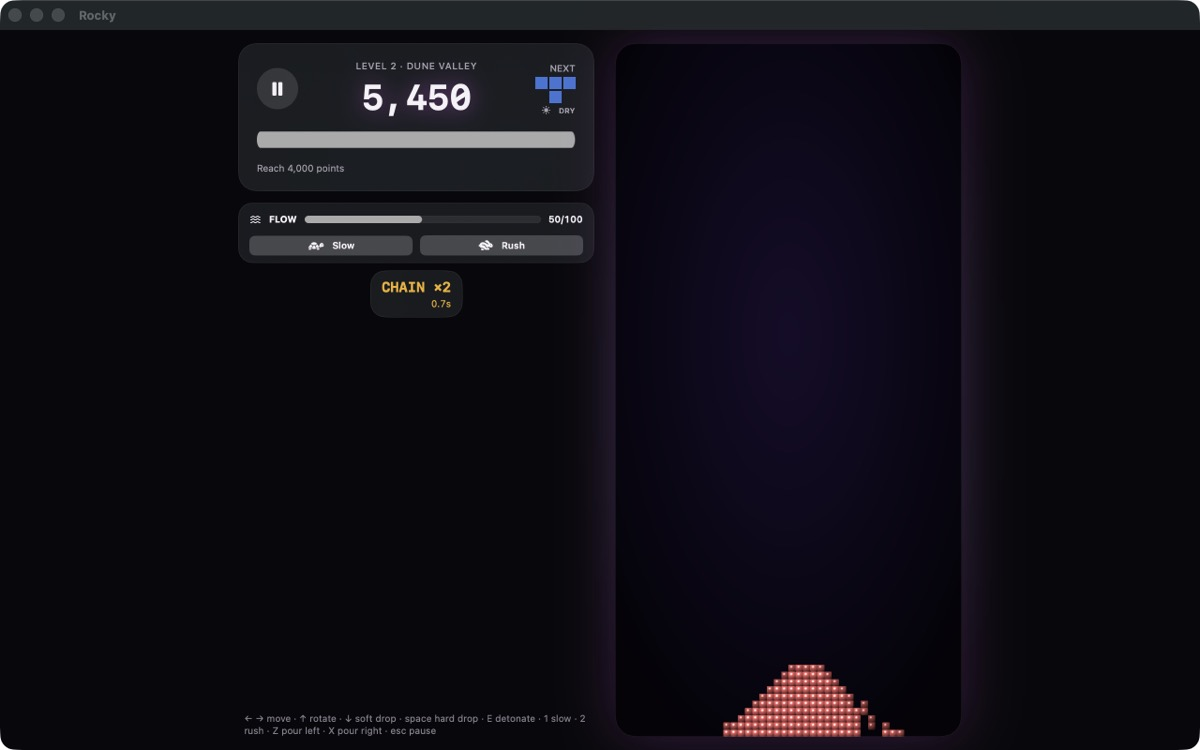
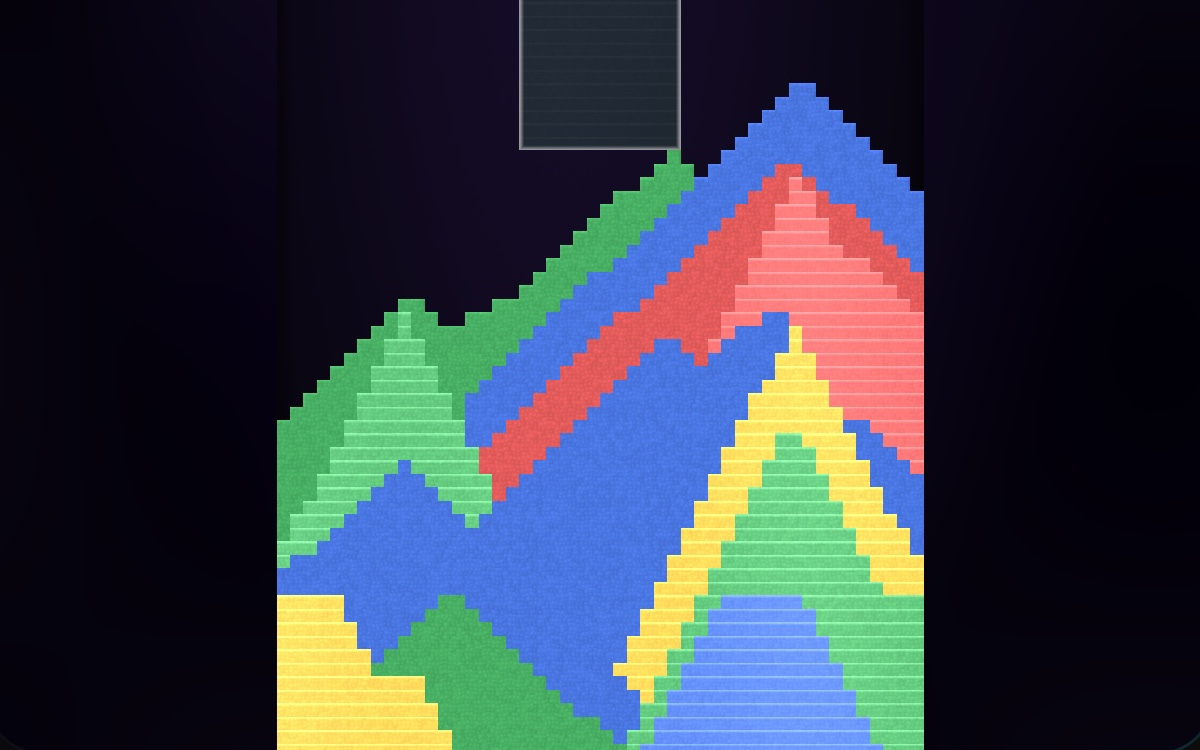
Refresh Rocky landing copy and genuine gameplay images

diff --git a/index.html b/index.html
@@ -3,20 +3,21 @@
 <head>
   <meta charset="utf-8">
   <meta name="viewport" content="width=device-width, initial-scale=1">
-  <title>Rocky: Falling Sand Puzzle for iPhone, iPad, Mac &amp; Vision Pro</title>
-  <meta name="description" content="An original falling-sand puzzle game for iPhone, iPad, Mac, and Apple Vision Pro. Stack blocks, melt sand wall-to-wall, and chain cascades across 20 missions.">
+  <title>Rocky: Falling Sand Puzzle for iPhone, iPad &amp; Mac</title>
+  <meta name="description" content="Drop blocks. Melt sand. Find your flow. Build colorful cascades through 20 missions, then chase your best in Endless. Play offline on iPhone, iPad, and Mac.">
   <link rel="canonical" href="https://fal3.github.io/rocky-support/">
   <meta property="og:type" content="website">
   <meta property="og:site_name" content="Rocky">
   <meta property="og:title" content="Rocky: Falling Sand Puzzle">
-  <meta property="og:description" content="Stack blocks that dissolve into flowing sand. Melt colors wall-to-wall, chain cascades, and master 20 missions plus endless mode — offline, on iPhone, iPad, Mac, and Apple Vision Pro.">
+  <meta property="og:description" content="Drop blocks. Melt sand. Find your flow. Clear space with colorful cascades, explore 20 missions, and chase your best in Endless — fully playable offline.">
   <meta property="og:url" content="https://fal3.github.io/rocky-support/">
   <meta property="og:image" content="https://fal3.github.io/rocky-support/assets/og-rocky.jpg">
   <meta property="og:image:width" content="1200">
   <meta property="og:image:height" content="750">
+  <meta property="og:image:alt" content="A colorful sand pile from a real Rocky Endless run">
   <meta name="twitter:card" content="summary_large_image">
   <meta name="twitter:title" content="Rocky: Falling Sand Puzzle">
-  <meta name="twitter:description" content="An original falling-sand puzzle game for iPhone, iPad, Mac, and Apple Vision Pro.">
+  <meta name="twitter:description" content="Drop blocks. Melt sand. Find your flow. Explore 20 missions and chase your best in Endless, fully playable offline.">
   <meta name="twitter:image" content="https://fal3.github.io/rocky-support/assets/og-rocky.jpg">
   <script type="application/ld+json">
   {
@@ -25,14 +26,14 @@
     "name": "Rocky: Falling Sand Puzzle",
     "alternateName": "Rocky: Falling Sand",
     "genre": ["Puzzle", "Casual"],
-    "gamePlatform": ["iOS", "iPadOS", "macOS", "visionOS"],
-    "operatingSystem": "iOS, iPadOS, macOS, visionOS",
+    "gamePlatform": ["iOS", "iPadOS", "macOS"],
+    "operatingSystem": "iOS, iPadOS, macOS",
     "applicationCategory": "GameApplication",
     "author": { "@type": "Person", "name": "Alexander Fallah" },
     "datePublished": "2026-07-22",
     "url": "https://fal3.github.io/rocky-support/",
     "image": "https://fal3.github.io/rocky-support/assets/og-rocky.jpg",
-    "description": "An original falling-sand puzzle game. Colored pieces drop into a deep well and dissolve into thousands of flowing grains. Build a connected path of one color from wall to wall to melt it, clear space, and launch cascading combos.",
+    "description": "Drop blocks that crumble into flowing sand. Join one color across the well to clear space and set up cascading combos. Explore 20 mountain missions, then chase your best in Endless.",
     "installUrl": "https://apps.apple.com/us/app/rocky-falling-sand/id6791708245",
     "offers": { "@type": "Offer", "price": "0", "priceCurrency": "USD" }
   }
@@ -61,29 +62,28 @@
   <main>
     <header class="hero">
       <h1>Rocky: Falling Sand Puzzle</h1>
-      <p class="tagline">Stack. Melt. Chain combos.</p>
+      <p class="tagline">Drop blocks. Melt sand. Find your flow.</p>
       <a class="store-badge" href="https://apps.apple.com/us/app/rocky-falling-sand/id6791708245">Download free on the App&nbsp;Store</a>
-      <p class="platforms">iPhone · iPad · Mac · Apple Vision Pro</p>
+      <p class="platforms">iPhone · iPad · Mac</p>
     </header>
 
     <div class="shots">
-      <img src="assets/02-channel-dimensional.jpg" alt="Rocky gameplay in Dimensional mode: glossy colored sand pooling in a deep well" loading="lazy" width="368" height="800">
-      <img src="assets/03-pillars-patterns.jpg" alt="Rocky mission with pillar terrain and pattern overlays for colorblind play" loading="lazy" width="368" height="800">
-      <img src="assets/05-endless-advanced.jpg" alt="Rocky endless mode with advanced ruleset and a high score in progress" loading="lazy" width="368" height="800">
+      <img src="assets/campaign-gameplay.jpg" alt="Blue Hollow campaign gameplay with a falling green block, a sand pile, and 4,250 points in Dimensional mode" loading="lazy" width="840" height="1825">
+      <img src="assets/accessible-gameplay.jpg" alt="Green Ridge gameplay with striped, dotted, and solid sand colors and 5,600 points" loading="lazy" width="840" height="1825">
+      <img src="assets/endless-gameplay.jpg" alt="Advanced Endless gameplay with a colorful sand pile, a falling green block, and 3,000 points" loading="lazy" width="840" height="1825">
     </div>
 
-    <p>Rocky is an original falling-sand puzzle game. Colored pieces drop into a
-      deep well and dissolve into thousands of flowing grains. Build a connected
-      path of one color from wall to wall to melt it, clear space, and launch
-      cascading combos.</p>
+    <p>Drop a block. Watch it crumble into flowing sand. Join one color across
+      the well to clear space and set up cascading combos. Explore 20 mountain
+      missions, then chase your best in Endless.</p>
 
     <section class="card">
-      <h2>Features</h2>
+      <h2>One more clear</h2>
       <ul class="features">
-        <li>Flowing, pooling sand driven by a deterministic simulation</li>
+        <li>Blocks crumble into sand that flows, piles up, and makes room for your next move</li>
         <li>Wall-to-wall melts, cascades, combos, and score multipliers</li>
         <li>20 handcrafted missions across four mountain chapters, plus endless mode</li>
-        <li>Crisp 2D and glossy Dimensional presentations over one simulation</li>
+        <li>Choose crisp 2D or glossy Dimensional visuals with the same rules</li>
         <li>Colorblind palettes, grain patterns, placement hints, and Reduce Motion support</li>
         <li>Optional Game Center leaderboards and achievements</li>
         <li>Fully playable offline</li>

diff --git a/README.md b/README.md
@@ -1,0 +1,35 @@
+# Rocky support and landing page
+
+Static HTML and image assets for **Rocky: Falling Sand Puzzle**.
+
+- Public page: https://fal3.github.io/rocky-support/
+- Product line: **Drop blocks. Melt sand. Find your flow.**
+- Source repository: https://github.com/fal3/rocky-support
+- HTML entry points: `index.html` and `privacy.html`
+
+## Existing publication path
+
+Commit the reviewed static files and assets to `main`, then push `main` to `origin`.
+GitHub's existing generated **pages build and deployment** workflow publishes the
+site. No package installation, custom build system, new hosting service, or new
+GitHub Actions workflow is required.
+
+After publication, verify that the Pages workflow completed for the pushed commit
+and check the public page, images, and metadata. A clean local checkout or an
+`origin/main` tracking reference alone is not proof of a successful deployment.
+The repository's Pages workflow was verified read-only on September 8, 2026.
+
+## Updating screenshots and copy
+
+Use captures from actual Rocky gameplay. Update image dimensions and alt text to
+match the files; keep key metadata, the main heading, and player-facing copy
+consistent. `assets/og-rocky.jpg` supplies the social preview. The September 8, 2026 images
+are genuine iPhone gameplay captures; the social preview is a crop of the same
+Endless run. Web resizing and JPEG compression do not alter game content.
+
+`privacy.html` describes the shipped app's current practices. Do not describe
+inactive analytics as active collection. Update the policy and other disclosures
+before a release changes those practices.
+
+For a local preview, run `python3 -m http.server 8765` from this directory and open
+`http://localhost:8765/`. This does not publish anything.
